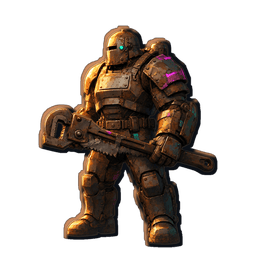
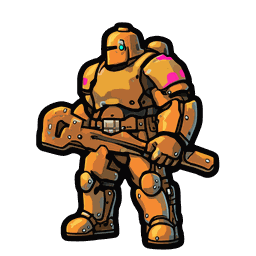
Journey: the FAL-792 look on each enemy's, Learner's and Spark's key frames, and the fight images (FAL-830)
Batch 4 of 5. Idle (and walk1, s2, s3 where listed) redrawn in the inked cel look; other frames stay
painted until batch 5 (FAL-831), so this ships together with it. Only x, y, w, h, ox, oy re-measured.

diff --git a/assets/journey/README.md b/assets/journey/README.md
@@ -221,3 +221,15 @@ batch lands, that sheet is still in the painted style.
   louder than the painted cast: Noma's tunic is bright teal with a magenta sash, and B0-LT is chrome grey with a
   teal chest plate. Dax's portraits now match his sheet (brown hat with teal goggles, dark hair and beard) instead
   of the old portraits' cap and grey hair.
+- Batch 4, FAL-830: the look frame of each enemy and party sheet: `d1-scavenger` and `d2-raider` idle, `d3-enforcer`
+  and `d4-warlord` idle and `s2`, `d5-overseer` idle, `s2` and `s3`, `signal-tower/dishback` idle,
+  `party/learner-female` and `learner-male` walk1 and idle, `party/spark` idle, plus the fight images
+  `game/assets/enemies/d1…d5.png` and `game/assets/avatars/avatar-spark.png` (256×256, 256-colour PNG like before).
+  The other frames of these sheets are still painted until batch 5 (FAL-831), so this batch ships together with it.
+  The female Learner's walk1 and D2's idle are the accepted FAL-792 test frames. The male Learner wears the female
+  Learner's costume (brown leather jacket, dark brown trousers, magenta scarf, chrome shoulder plate, teal pack),
+  with his cap instead of her headband. D5 stays a dark machine: almost-black gunmetal plates with a few rust-orange
+  ones. Stage looks: D3 `s2` adds hot-magenta lines along the plate seams, D4 `s2` turns the shoulder tubes magenta,
+  D5 `s2` opens the chest on a flat magenta core and `s3` strips it to a chrome frame. Glows are flat inked shapes,
+  with no bloom outside the outline. Frame ids, anims, `stages` and `hand` are unchanged; only `x`, `y`, `w`, `h`,
+  `ox`, `oy` were re-measured (each new frame is within 5% of the old size, with the feet on the bottom row).
